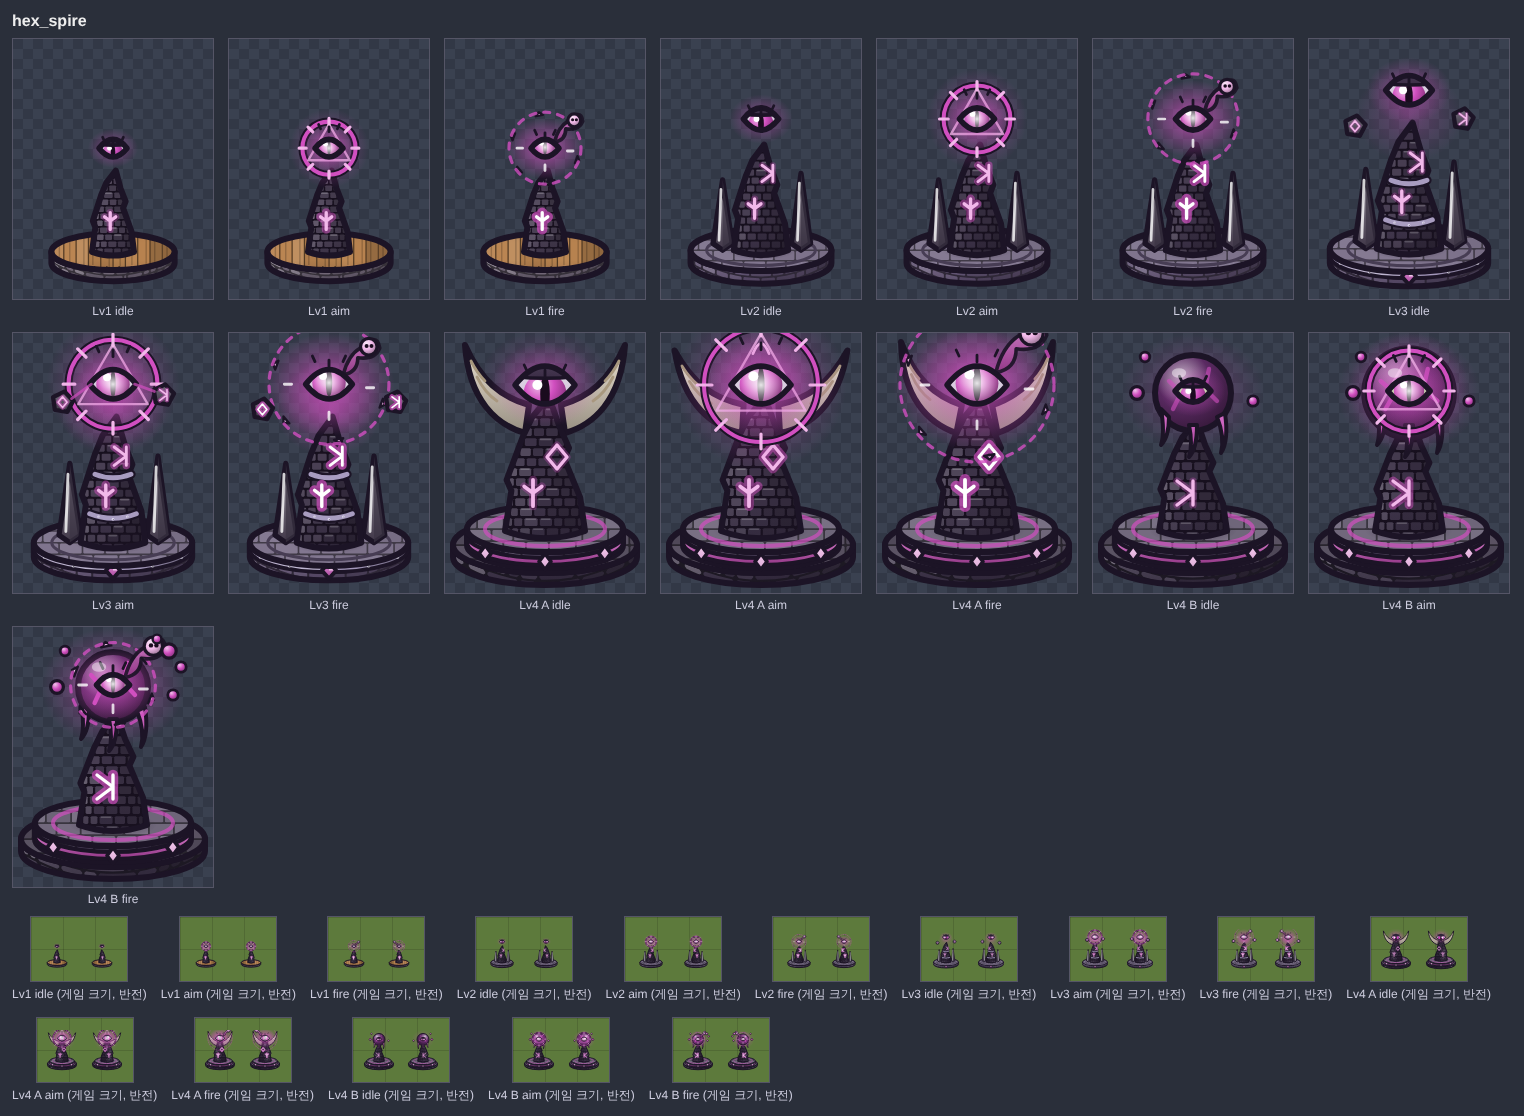
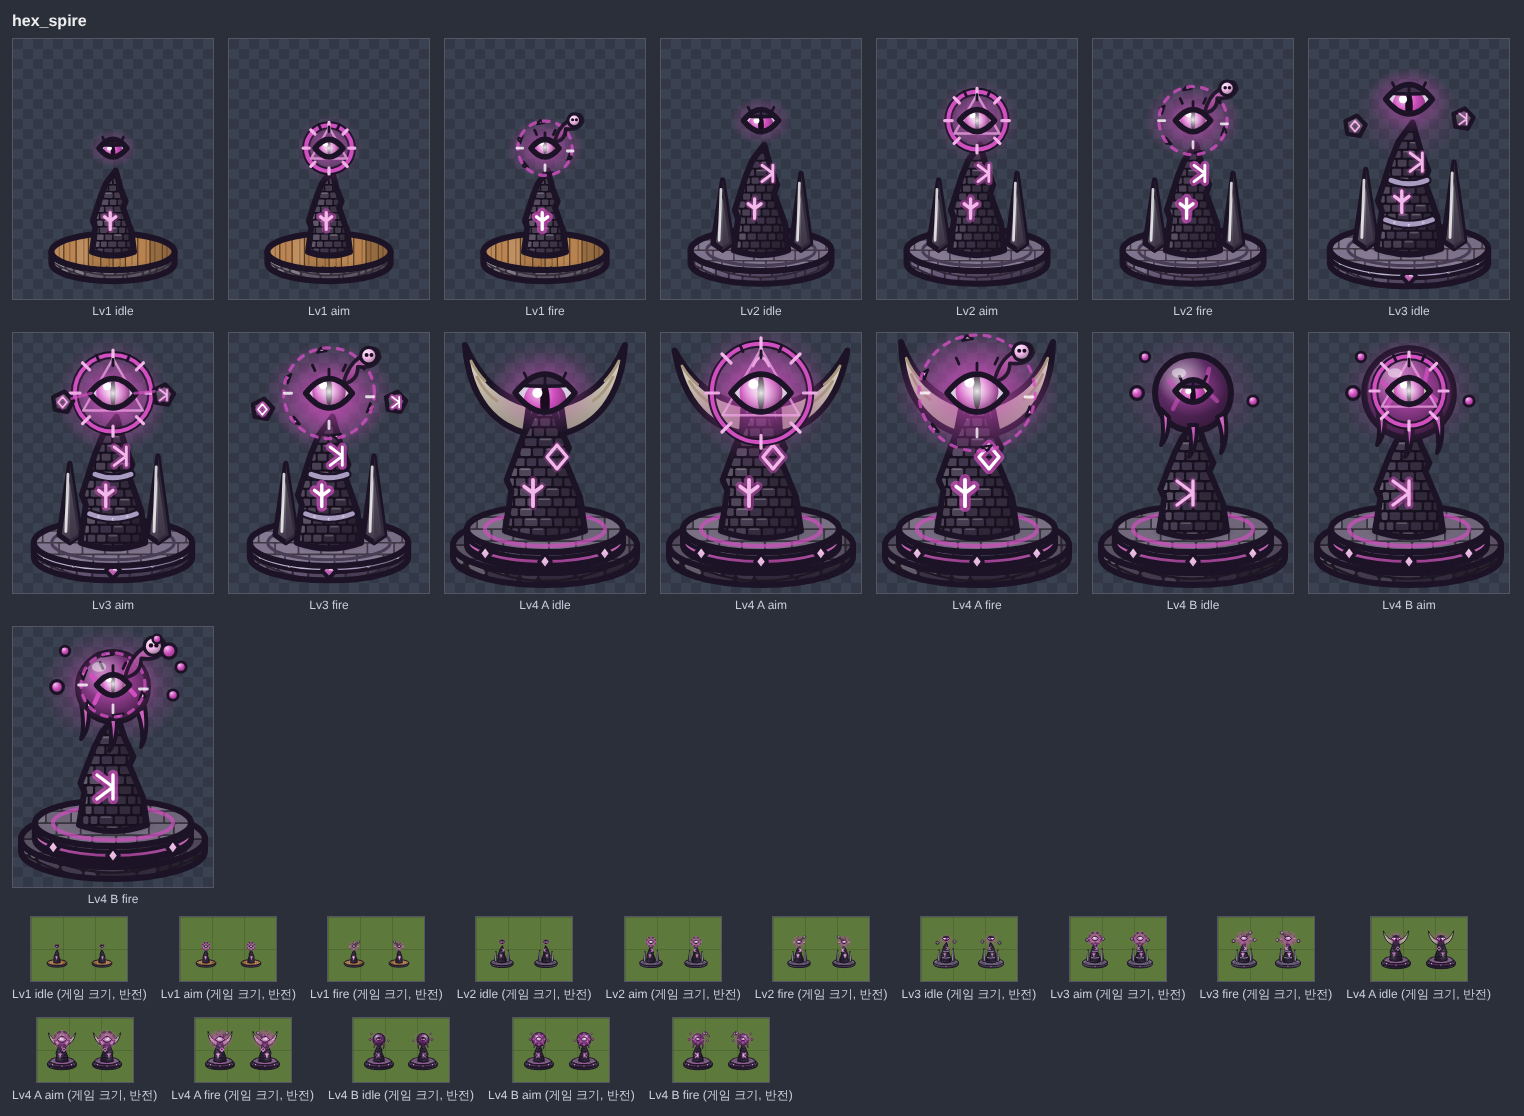
그림 개편 중간 저장 (탑 진행 중)
Claude-Session: https://claude.ai/code/session_019NZtTmwD25Z7Uwzm3CtuzC

diff --git a/resonance-guard/js/art/towers-b.js b/resonance-guard/js/art/towers-b.js
@@ -1569,8 +1569,8 @@
       o += radOrb(c, 50, 26, 10.5, pose, '#ffffff');
       o += rg2(-tilt);
       const spread = by(pose, 1, 0.8, 1.35);
-      const cry = (x, y, s0) => crystal(c, 50 + (x - 50) * spread, 30 + (y - 30) * spread, 7 * s0, 12 * s0, '#fffbe6', 2);
-      o += cry(18, 52, 1) + cry(82, 48, 1) + cry(26, 8, 0.86) + cry(76, 8, 0.86);
+      const cry = (x, y, s0) => crystal(c, 50 + (x - 50) * spread, Math.max(9, 30 + (y - 30) * spread), 7 * s0, 12 * s0, '#fffbe6', 2);
+      o += cry(18, 52, 1) + cry(82, 48, 1) + cry(26, 10, 0.86) + cry(76, 10, 0.86);
       return o;
     },
   };
@@ -1604,8 +1604,8 @@
     const E = c.E;
     if (broken) {
       let s = '';
-      for (let i = 0; i < 6; i++) { const a = i * 60 + 20; const p = pol([x, y], r * 1.25, a); s += c.p(`M${pp(pol(p, 2.6, a + 90))}L${pp(pol(p, 2.2, a))}L${pp(pol(p, 2.6, a - 90))}Z`, E.light, 1.2); }
-      return s + c.ci(x, y, r * 1.35, 'none', 0, ` stroke="${E.color}" stroke-width="${c.sw(1.6)}" stroke-dasharray="${c.sw(3)} ${c.sw(4)}" opacity="0.8"`);
+      for (let i = 0; i < 6; i++) { const a = i * 60 + 20; const p = pol([x, y], r * 1.1, a); s += c.p(`M${pp(pol(p, 2.6, a + 90))}L${pp(pol(p, 2.2, a))}L${pp(pol(p, 2.6, a - 90))}Z`, E.light, 1.2); }
+      return s + c.ci(x, y, r * 1.18, 'none', 0, ` stroke="${E.color}" stroke-width="${c.sw(1.6)}" stroke-dasharray="${c.sw(3)} ${c.sw(4)}" opacity="0.8"`);
     }
     let ticks = '';
     for (let i = 0; i < 8; i++) { const a = i * 45; ticks += `M${pp(pol([x, y], r * 0.86, a))}L${pp(pol([x, y], r * 1.12, a))}`; }
@@ -1646,16 +1646,16 @@
   function eyeRig(c, x, y, w, pose, o = {}) {
     const S = eyeState(pose);
     let s = '';
-    if (pose === 'aim') s += o.sigil ? o.sigil(x, y, w * 0.95) : sigil(c, x, y, w * 0.95, false);
+    if (pose === 'aim') s += o.sigil ? o.sigil(x, y, w * 0.82) : sigil(c, x, y, w * 0.82, false);
     s += watchEye(c, x, y, w, S.open, S.look, S.flash, o);
-    if (pose === 'fire') s += sigil(c, x, y, w * 0.95, true) + curseBolt(c, x + w * 0.2, y - w * 0.15, o.boltK || 1.35) + c.ln(`M${f(x - w * 0.8)} ${f(y)}h-4M${f(x + w * 0.8)} ${f(y + 2)}h4M${f(x)} ${f(y + w * 0.6)}v4`, '#fff', 1.4, 0.8);
+    if (pose === 'fire') s += sigil(c, x, y, w * 0.82, true) + curseBolt(c, x + w * 0.2, y - w * 0.15, o.boltK || 1.35) + c.ln(`M${f(x - w * 0.8)} ${f(y)}h-4M${f(x + w * 0.8)} ${f(y + 2)}h4M${f(x)} ${f(y + w * 0.6)}v4`, '#fff', 1.4, 0.8);
     return s;
   }
   /** 떠 있는 룬 돌(오각) */
   const runeStone = (c, x, y, i, lit) => c.p(RG.art._h.polyPath(x, y, 6, 5, -80), c.vg('#4a4054', 0.25, -0.2), 2.2) + hexRune(c, x, y, 0.5, i, lit);
 
   T.hex_spire = {
-    muzzle: [[50, 30], [50, 22], [50, 16], [50, 26], [50, 30]],
+    muzzle: [[50, 30], [50, 23], [50, 21], [50, 30], [50, 29]],
     draw(c, v, pose = 'idle') {
       const h = c.h;
       const E = c.E;
@@ -1677,7 +1677,7 @@
         o += jagSpireB(c, L3 ? 34 : 38, 104, L3 ? 36 : 34, DST2, 144);
         if (L3) o += c.ln('M37 88Q50 93 63 88M40 66Q50 70 60 66', OL, 4.6) + c.ln('M37 88Q50 93 63 88M40 66Q50 70 60 66', '#a89cc0', 2.4) + rivets(c, [[42, 89.6], [50, 91], [58, 89.6]], '#e0d8f0', 0.7);
         o += hexRune(c, 46, 78, 1, 0, lit) + hexRune(c, 54, 56, 0.85, 1, lit);
-        const ey = L3 ? 16 : 22;
+        const ey = L3 ? 21 : 23;
         o += eyeRig(c, 50, ey, L3 ? 26 : 22, pose);
         if (L3) {
           const rs = by(pose, [[20, 36], [80, 32]], [[22, 26], [78, 22]], [[13, 30], [87, 26]]);
@@ -1689,7 +1689,7 @@
       if (v === 'A') {
         // 파멸 첨탑: 뿔 둘, 큰 눈, 해골 룬 문양
         let o = base(c, 4, { stone: '#4a3f58', trim: E.color, seed: 145 });
-        o += aura(c, 50, 26, 34, 28, E.color, 0.35 + lit * 0.12);
+        o += aura(c, 50, 30, 34, 28, E.color, 0.35 + lit * 0.12);
         o += ao(c, 50, 99, 24, 6, 0.55);
         const horn = (sgn) => c.p(sgn < 0 ? 'M40 50C26 46 12 34 10 6C18 24 28 32 42 36Z' : 'M60 50C74 46 88 34 90 6C82 24 72 32 58 36Z', c.vg('#e8dcc8', 0.2, -0.35), 3) + c.ln(sgn < 0 ? 'M16 22Q20 30 26 34M13 14Q16 20 20 24' : 'M84 22Q80 30 74 34M87 14Q84 20 80 24', '#a8987e', 1.4);
         const hr = by(pose, 0, -5, 3);
@@ -1697,7 +1697,7 @@
         o += jagSpireB(c, 32, 99, 40, DST2, 146);
         o += hexRune(c, 44, 80, 1.1, 0, lit) + hexRune(c, 56, 62, 1, 2, lit);
         const skull = (x, y, r) => sigil(c, x, y, r, false) + c.p(`M${f(x - 4)} ${f(y - r * 0.55)}Q${f(x)} ${f(y - r * 0.9)} ${f(x + 4)} ${f(y - r * 0.55)}`, 'none', 0, ` stroke="${E.light}" stroke-width="${c.sw(1.4)}"`);
-        o += eyeRig(c, 50, 26, 30, pose, { sigil: skull, boltK: 1.7 });
+        o += eyeRig(c, 50, 30, 30, pose, { sigil: skull, boltK: 1.3 });
         return o;
       }
       // 'B' 역병 첨탑: 부푼 역병 주머니 속 눈, 흘러내리는 독, 뱉어 내는 독 방울

diff --git a/resonance-guard/js/art/enemies-r12.js b/resonance-guard/js/art/enemies-r12.js
@@ -11,7 +11,7 @@
  *   땅에 떨어지는 그림자는 그리지 않음(렌더러 몫). 몸 아래쪽 형태 그림자·발끝 접지 그늘만 그림.
  * ========================================================= */
 (() => {
-  const { H, OL, sh, GREY, GREY_L, MISTC, HALO, GREEN, ICE, ICE_L, make, g } = RG.art._en;
+  const { H, OL, sh, GREY, GREY_L, MISTC, GREEN, ICE, ICE_L, make, g } = RG.art._en;
   const D = RG.art._en.D;
   const MOTION = RG.art._en.MOTION || (RG.art._en.MOTION = {});
 
@@ -158,13 +158,6 @@
       (light ? `<ellipse cx="${n(x - w * 0.35)}" cy="${n(y - h * 0.55)}" rx="${n(w * 0.55)}" ry="${n(h * 0.35)}" fill="#fff" opacity="${light}" ${c.soft()}/>` : '') +
       '</g>';
   }
-  /** 모양 d(변환 t) 안쪽에만 그리기 */
-  function inside(d, t, body) {
-    const id = H.uid('ec');
-    return `<clipPath id="${id}"><path d="${d}"${t ? ` transform="${t}"` : ''}/></clipPath><g clip-path="url(#${id})" stroke="none">${body}</g>`;
-  }
-  /** 흐린 그늘 덩어리(외곽선 없음) */
-  const shadeE = (c, x, y, rx, ry, op = 0.25, col = OL) => `<ellipse cx="${n(x)}" cy="${n(y)}" rx="${n(rx)}" ry="${n(ry)}" fill="${col}" opacity="${op}" stroke="none" ${c.soft()}/>`;
   /** 빛나는 눈이 꺼져 가는 모습(죽음): 감긴 눈 */
   const deadEye = (c, x, y, r) => c.L(`M${n(x - r)} ${n(y)}Q${n(x)} ${n(y + r * 0.9)} ${n(x + r)} ${n(y)}`, OL, 1.8);
   /** 맞는 순간 번쩍(작은 별) */
@@ -185,8 +178,6 @@
     const m = (a0 + a1) / 2;
     return `<path d="M${p(a0, r)}A${r} ${r} 0 ${big} ${sw} ${p(a1, r)}Q${p(m, r - w * 1.4)} ${p(a0, r)}Z" fill="${col}" opacity="${op}" stroke="none"/>`;
   }
-  /** 목표점: 배열이면 세계 좌표, {L:[x,y]}이면 몸 좌표계 F의 점 */
-  const tgt = (q, F) => (Array.isArray(q) ? q : F(q.L));
   /** 쥔 주먹(장갑·건틀릿): 손 p, 아래팔 방향 a(도). 자루 위에 그려서 손가락이 감싼 모양 */
   function fist(c, p, a, r, fill, knuckle = OL) {
     const k1 = pol(p, r * 0.55, a + 70);
@@ -924,7 +915,6 @@
     };
 
     let s = '';
-    if (!p.drop) s += '';
     s += arm([47, 39], p.fh, sh(rust, -0.28), false);
     s += leg([47, 59], p.fl, sh(rustD, -0.05)) + leg([53, 59], p.nl, rust);
     // 몸통: 가슴판·허리 갑옷 미늘·녹 구멍(속이 빔)

diff --git a/resonance-guard/js/art/towers-a.js b/resonance-guard/js/art/towers-a.js
@@ -795,7 +795,7 @@
         o += ringWall(c, 50, 86, 104, 38, 5, st, 'back');
         /* 안쪽: 포탄 더미 + 포 + 받침 */
         o += shells(c, 76, 84, 0.85, L3 ? '#5a4040' : '#4a4450');
-        const g = mortarGun(c, 58, 86 + rec, L3 ? 40 : 38, L3 ? 14 : 13.5, ang, L3 ? { bands: [0.3, 0.62], trim: M.gold, dragon: '#b8402a', hot: pose !== 'idle' } : { hot: pose !== 'idle' });
+        const g = mortarGun(c, 58, 86 + rec, L3 ? 40 : 38, L3 ? 14 : 13.5, L3 && pose === 'idle' ? 46 : ang, L3 ? { bands: [0.3, 0.62], trim: M.gold, dragon: '#b8402a', hot: pose !== 'idle' } : { hot: pose !== 'idle' });
         o += g.s;
         o += c.p('M47 98L50 84Q58 78 66 84L69 98Z', c.vg(L3 ? h.shade(M.wood, -0.1) : M.wood, 0.25, -0.25), 2.6) + c.ln('M51 90H65', h.shade(M.wood, -0.4), 1.5);
         o += c.ci(58, 86 + rec, 3.2, c.sg(L3 ? M.gold : M.ironL), 2) + c.ci(58, 86 + rec, 1.1, OLC, 0);
@@ -1073,7 +1073,7 @@
     s += c.p(`M${f(x - w / 2 + 1)} ${f(yt + 3)}H${f(x + w / 2 - 1)}V${f(yt + 7)}H${f(x - w / 2 + 1)}Z`, '#1c1426', 0, ' opacity="0.3"');
     const big = pose === 'fire';
     s += flame(c, x, yt - 0.5, w * (big ? 1 : 0.75), w * (big ? 1.5 : 1));
-    s += OP(c.ci(x - 2, yt - w * 1.6, w * 0.32, '#8a8088', 0) + c.ci(x + 3, yt - w * 2.1, w * 0.4, '#8a8088', 0), 0.45);
+    s += OP(c.ci(x - 2, yt - w * 1.15, w * 0.28, '#8a8088', 0) + c.ci(x + 3, yt - w * 1.5, w * 0.34, '#8a8088', 0), 0.45);
     if (pose !== 'idle') s += embers(c, [[x + w * 0.7, yt - w * 1.2, 2], [x - w * 0.6, yt - w * 1.5, 1.6], [x + w * 0.2, yt - w * 2, 1.5]]);
     return s;
   }
